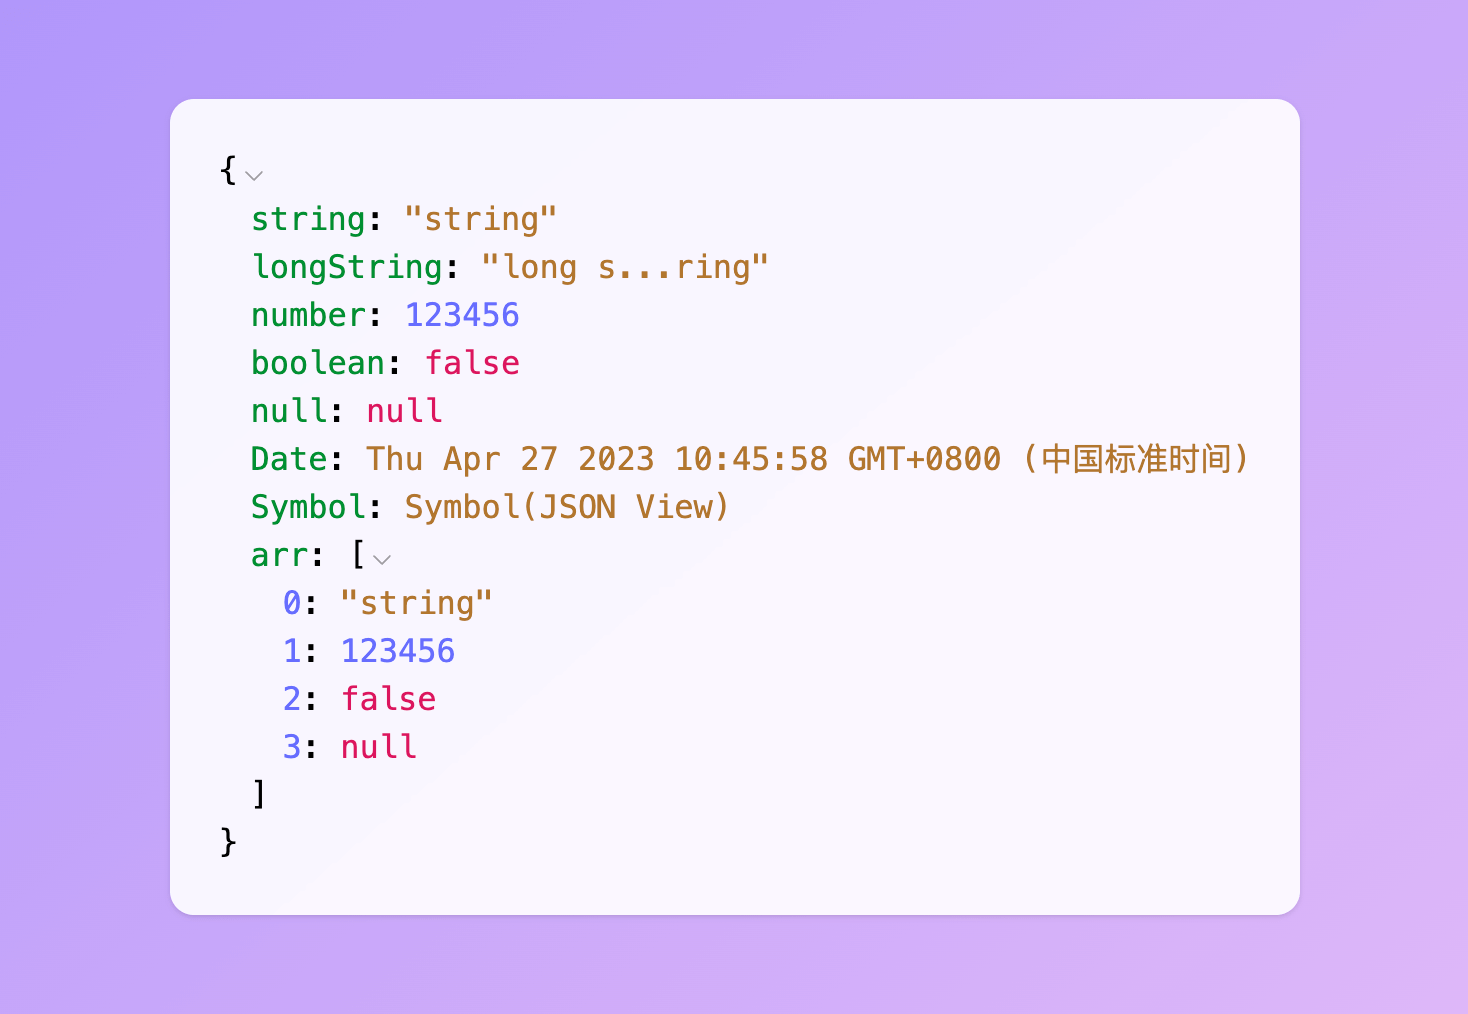
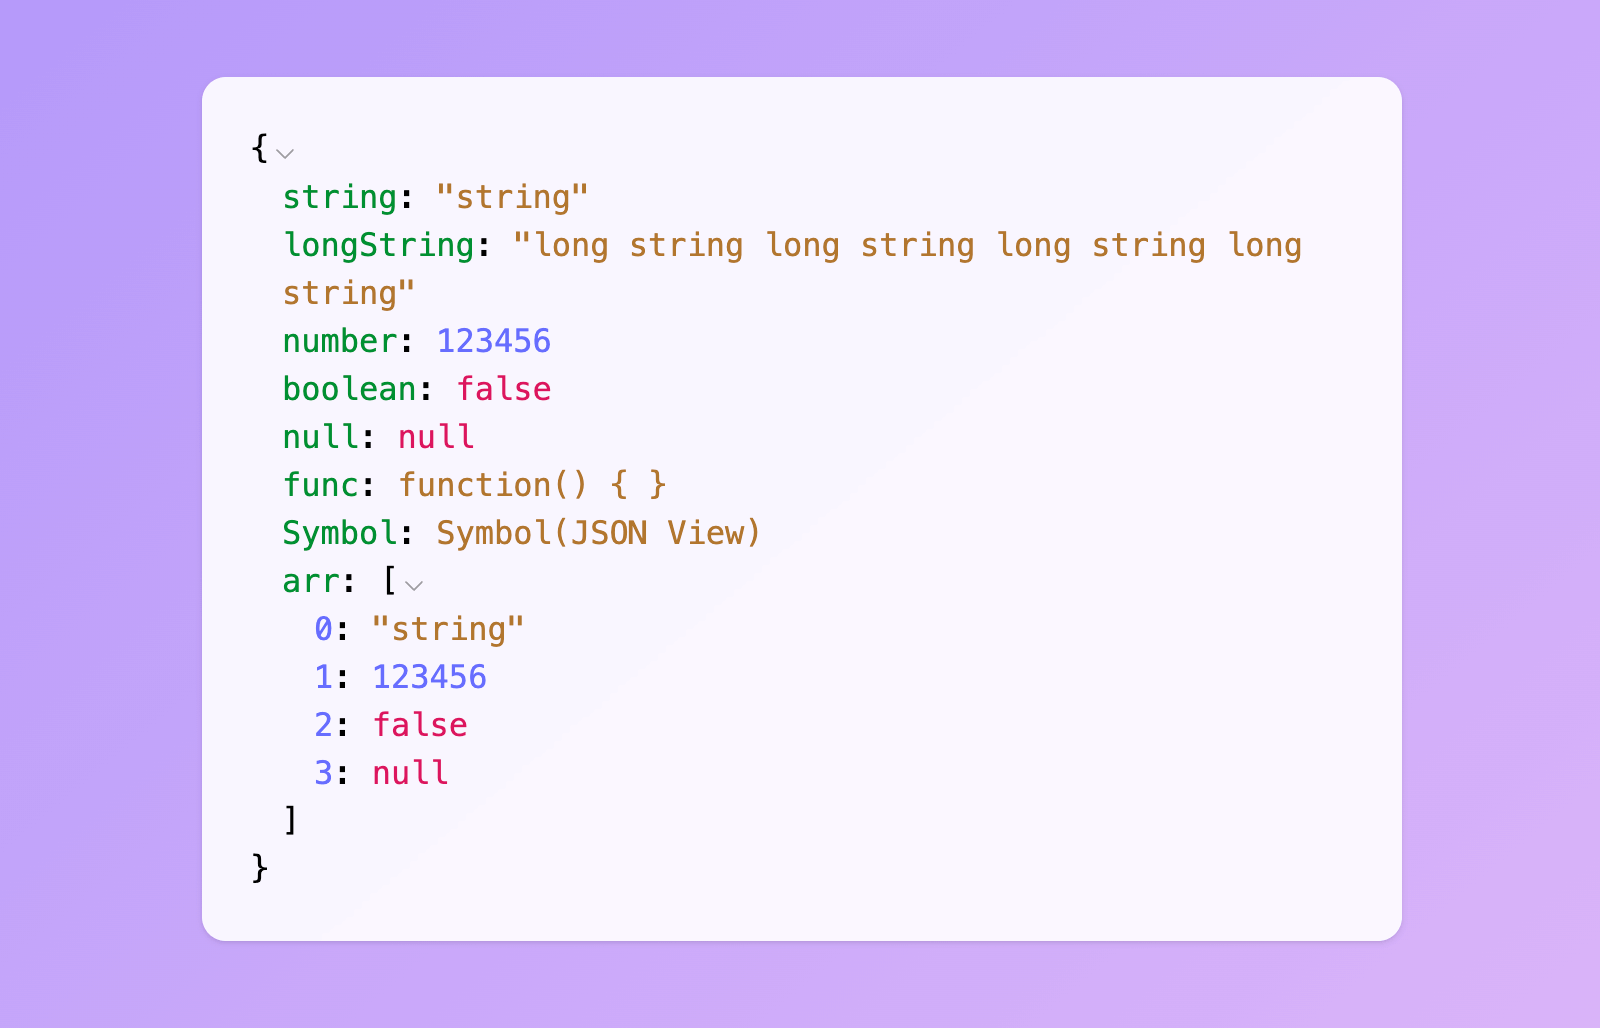
Update prop and docs

Changed region(s): [[0.092, 0.0611, 0.889, 0.9172]]

diff --git a/src/index.stories.tsx b/src/index.stories.tsx
@@ -16,17 +16,15 @@ export default {
 			control: 'number',
 			description:
 				'When an integer value is assigned, strings will be cut off at that length. Collapsed strings are inserted by an ellipsis. String content can be expanded and collapsed by clicking on the string value.',
-			default: 12,
 			table: {
-				defaultValue: { summary: 12 }
+				defaultValue: { summary: 99 }
 			}
 		},
 		collapseObjectsAfterLength: {
 			control: 'number',
 			description: 'When an integer value is assigned, the object and array will be collapsed initially.',
-			defaultValue: 10,
 			table: {
-				defaultValue: { summary: 10 }
+				defaultValue: { summary: 20 }
 			}
 		}
 	},
@@ -51,7 +49,7 @@ export const Primary: StoryObj<TYPE_FC> = {
 			number: 123456,
 			boolean: false,
 			null: null,
-			Date: new Date(),
+			func: function(){},
 			Symbol: Symbol('JSON View'),
 			arr: ['string', 123456, false, null]
 		}

diff --git a/src/index.tsx b/src/index.tsx
@@ -2,14 +2,14 @@ import { createContext, useContext, useState } from 'react'
 import ChevronIcon from './ChevronDownSvg'
 
 const JsonViewContext = createContext({
-	collapseStringsAfterLength: 12,
-	collapseObjectsAfterLength: 10
+	collapseStringsAfterLength: 99,
+	collapseObjectsAfterLength: 20
 })
 
 export default function JsonView({
 	src,
-	collapseStringsAfterLength = 12,
-	collapseObjectsAfterLength = 10
+	collapseStringsAfterLength = 99,
+	collapseObjectsAfterLength = 20
 }: {
 	src: any
 	collapseStringsAfterLength?: number

diff --git a/README.md b/README.md
@@ -23,8 +23,8 @@ import 'react18-json-view/src/style.css'
 Name|Type|Default|Description
 |:---|:---|:---|:---
 `src`|`JSON Object`|None|This property contains your input JSON
-`collapseStringsAfterLength`|`integer`|12|When an integer value is assigned, strings will be cut off at that length. Collapsed strings are inserted by an ellipsis. String content can be expanded and collapsed by clicking on the string value.
-`collapseObjectsAfterLength`|`integer`|10|When an integer value is assigned, the object and array will be collapsed initially.
+`collapseStringsAfterLength`|`integer`|99|When an integer value is assigned, strings will be cut off at that length. Collapsed strings are inserted by an ellipsis. String content can be expanded and collapsed by clicking on the string value.
+`collapseObjectsAfterLength`|`integer`|20|When an integer value is assigned, the object and array will be collapsed initially.
 
 ## Why
 react-json-view does not support React 18.
